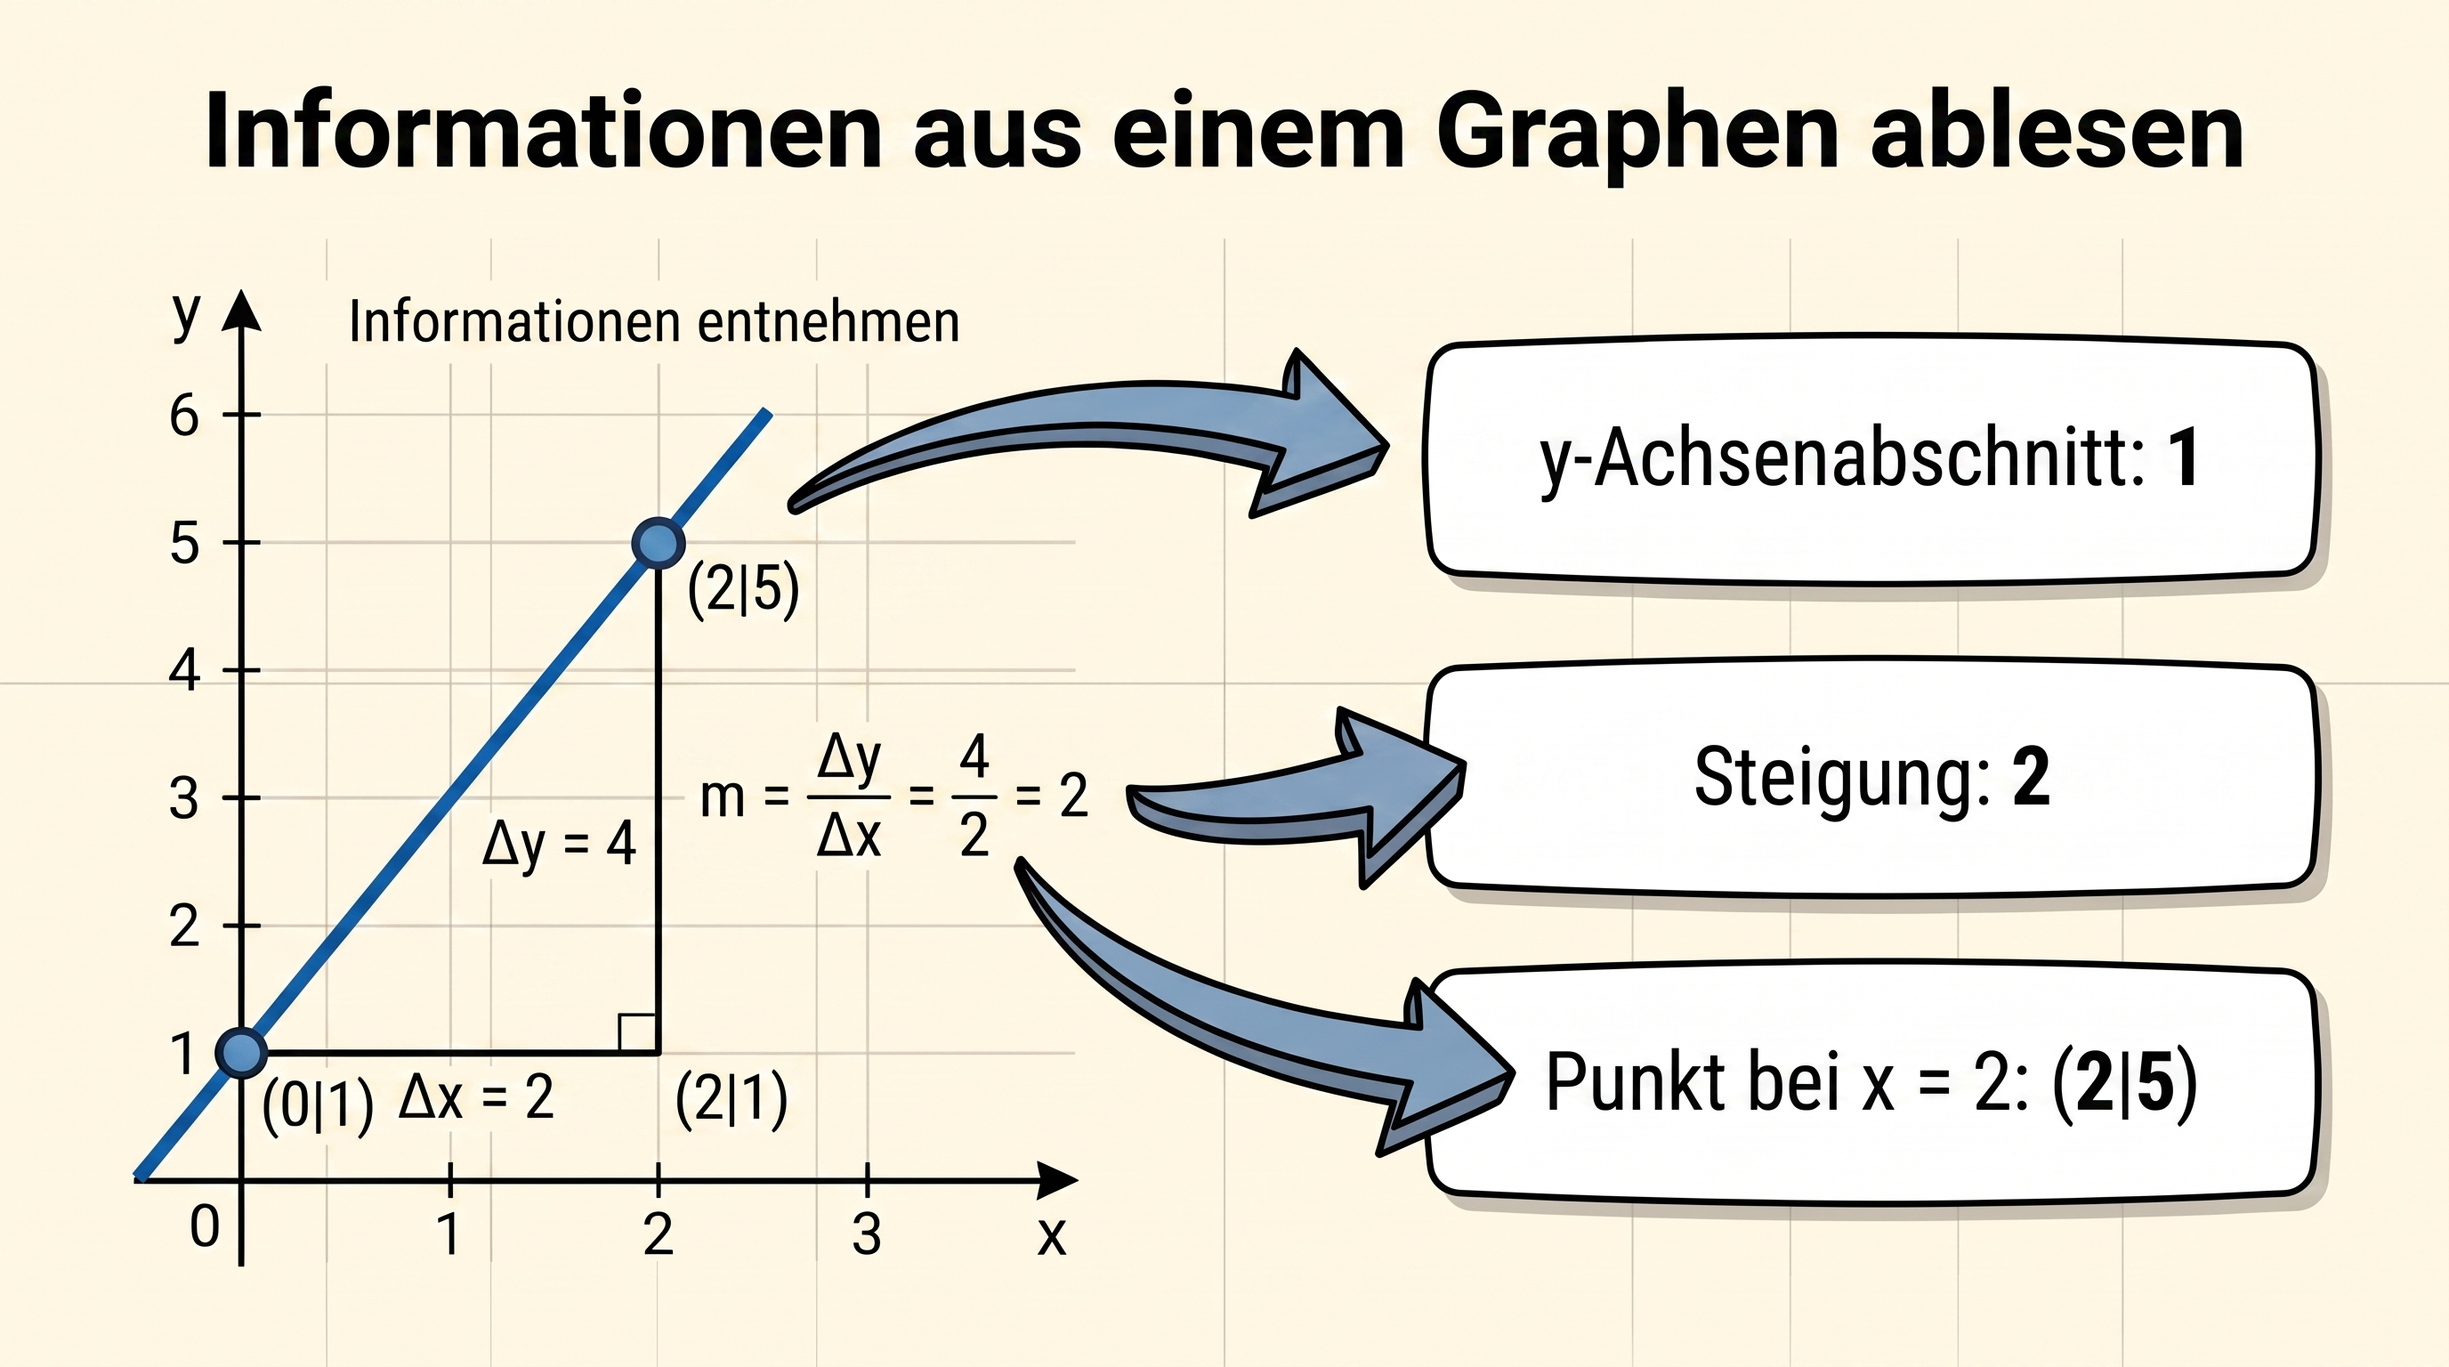
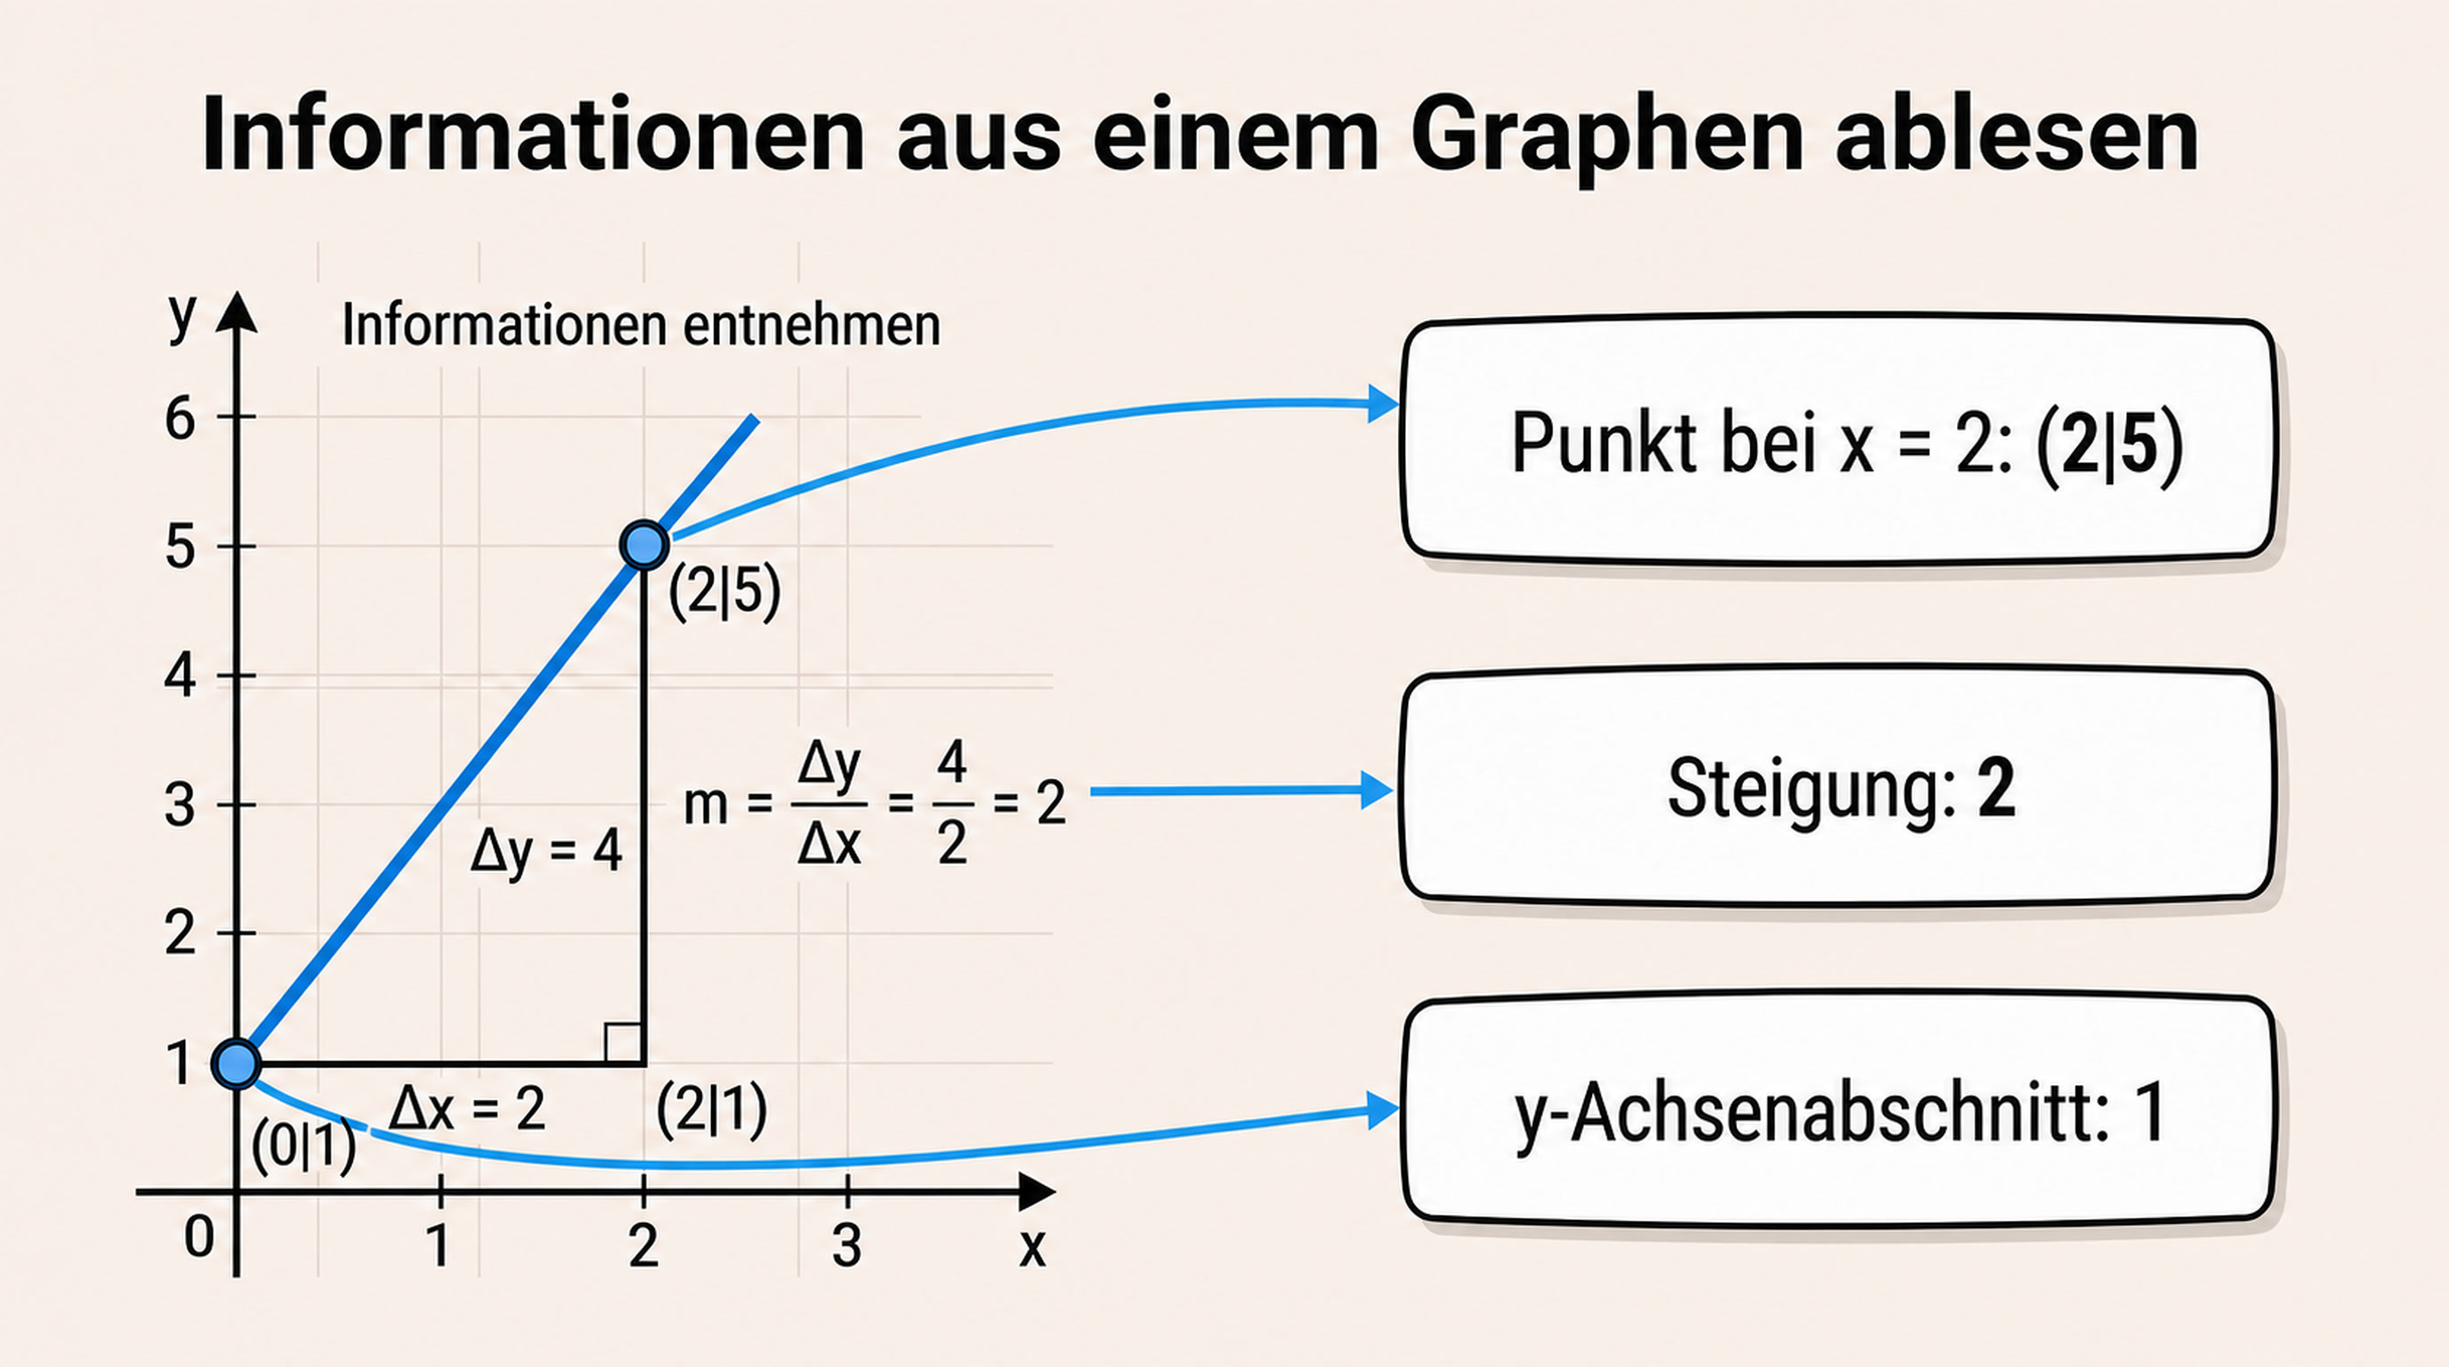
skill graph update

Changed region(s): [[0.0312, 0.2188, 0.9688, 0.9375], [0.0625, 0.0625, 0.9375, 0.1562]]

diff --git a/backend/src/test/java/com/skillpilot/backend/curriculumpackage/ProvisionedCurriculumPackageConformanceTest.java b/backend/src/test/java/com/skillpilot/backend/curriculumpackage/ProvisionedCurriculumPackageConformanceTest.java
@@ -44,7 +44,7 @@ class ProvisionedCurriculumPackageConformanceTest {
         assertThat(snapshot.packages().getFirst().packageId())
                 .isEqualTo("org.skillpilot.curriculum.de.gymnasium.mathematik");
         assertThat(snapshot.packages().getFirst().contentDigest())
-                .isEqualTo("sha256:1b5294f3ea798f0ce95a57c86103119dd5b2ec58f29122c3127931f802ecad3c");
+                .isEqualTo("sha256:6216769178ce58830896e825a1b5c7739922cd336a8148c7402ba51cf710d5df");
         assertThat(snapshot.rootLandscapeIds()).hasSize(1);
         assertThat(snapshot.landscapesById()).hasSize(1);
         assertThat(snapshot.viewsById()).hasSize(88);

diff --git a/docs/qa-ci/curriculum-release-model-conformance.md b/docs/qa-ci/curriculum-release-model-conformance.md
@@ -82,7 +82,7 @@ Before compiling payloads, the compiler proves that `tmp/lehrplan-ontologie` is 
 
 `dependency-closure.json` inventories typed Runtime definitions and every schema-classified Runtime reference. Identical definitions can be deduplicated by canonical definition digest; the same stable identity with a different definition is a hard conflict. Publication evidence is deliberately not seeded or traversed: evidence about a goal must roundtrip and affect the content digest, but it must not become a navigation dependency. The initial Mathematik release has no predecessor, so `migration-aliases.json` uses an explicit `initial` baseline and an empty rule set. Later releases must compare against a pinned stable baseline and use the registered migration relation and mastery/history policy for every identity change.
 
-`semantic-content-index.json` is package-path-neutral. It binds 111 normalized logical records—including all four publication artifacts—and 734 image binary records into one deterministic `contentDigest`; generated digest fields are excluded through the versioned normalization contract to avoid self-reference. For the current `0.1.0-conformance.3` authoring state the result is `sha256:1b5294f3ea798f0ce95a57c86103119dd5b2ec58f29122c3127931f802ecad3c`. The older DPK-007a/008 release freeze remains bound to its historical digest and must be supplied as a frozen artifact rather than rebuilt from current sources. The closure digest is `sha256:b6f7022e7ab20cd901d3417279cd870c5c11d317283a121ec67e759ccbb3ed39`; the definition-index digest is `sha256:d6aa2e3303843d4c2bdae712438f4c3a2df098d1b95d5faa21554d21ca97d8f1`.
+`semantic-content-index.json` is package-path-neutral. It binds 111 normalized logical records—including all four publication artifacts—and 734 image binary records into one deterministic `contentDigest`; generated digest fields are excluded through the versioned normalization contract to avoid self-reference. For the current `0.1.0-conformance.3` authoring state the result is `sha256:6216769178ce58830896e825a1b5c7739922cd336a8148c7402ba51cf710d5df`. The older DPK-007a/008 release freeze remains bound to its historical digest and must be supplied as a frozen artifact rather than rebuilt from current sources. The closure digest is `sha256:e310ea33918786c1ada6a2e6e78b1593a4a3f66573e0fe7fbcfb19637587b5a2`; the definition-index digest is `sha256:90ecbc58534cda75efd2a1f4df5fe08bb86cb5f37cab2d7b8cd0c2b6a78132e8`.
 
 ## Publication Evidence
 

diff --git a/curricula/DE/Gymnasium/quality/goal-visualization-review/mathematik-rollout-status.md b/curricula/DE/Gymnasium/quality/goal-visualization-review/mathematik-rollout-status.md
@@ -8,7 +8,7 @@
 > Source of truth: `curricula/DE/Gymnasium/canonical/DE_DEU_S_GYM_CANONICAL_MATHEMATIK.de.json`
 > Source of truth: `curricula/DE/Gymnasium/quality/goal-visualization-review`
 
-Generated: 2026-07-28T12:32:42.720Z
+Generated: 2026-08-05T06:57:54.319Z
 
 Scope: canonical `DE Gymnasium Mathematik`, atomic goal visualizations.
 
@@ -24,7 +24,7 @@ Scope: canonical `DE Gymnasium Mathematik`, atomic goal visualizations.
 | Dokumentierte Coverage | 100.0% |
 | Coverage-Gate | bestanden |
 | Release-approved Visualisierungen | 0 |
-| Review-Ledger-Dateien | 218 |
+| Review-Ledger-Dateien | 219 |
 | Offene Provider-Deferred-Ziele | 23 |
 | Offene Provider-Quota-Ziele | 0 |
 | Provider-Quota-blockierte Ledger | 2 |
@@ -58,7 +58,7 @@ Scope: canonical `DE Gymnasium Mathematik`, atomic goal visualizations.
 | `accepted_pilot_after_second_regeneration` | 15 |
 | `accepted_pilot_after_third_attempt` | 5 |
 | `accepted_pilot_after_third_regeneration` | 6 |
-| `accepted_pilot_after_user_review_correction` | 46 |
+| `accepted_pilot_after_user_review_correction` | 47 |
 | `accepted_user_supplied_replacement` | 1 |
 | `blocked_provider_quota` | 5 |
 | `correction_open_provider_credit_exhausted` | 4 |
@@ -77,8 +77,8 @@ Scope: canonical `DE Gymnasium Mathematik`, atomic goal visualizations.
 
 | Metric | Value |
 | --- | --- |
-| Latest ledger | `curricula/DE/Gymnasium/quality/goal-visualization-review/mathematik-user-review-correction-2026-07-23.md` |
-| Latest ledger status | `completed` |
+| Latest ledger | `curricula/DE/Gymnasium/quality/goal-visualization-review/mathematik-arrow-source-correction-2026-08-05.md` |
+| Latest ledger status | `completed_pilot` |
 | Configured resume file | - |
 | Configured prompt append dir | `tmp/goal-visualization-prompt-appends/mathematik-final-gap-2026-07-17` |
 
@@ -156,7 +156,7 @@ Keine Eintraege.
 | 152 | `2f565855-bcd6-4da5-bc80-4b72a2d93d50` | Dezimalzahlen auf der Zahlengeraden, im Stellenwertsystem und als Bruch darstellen | `accepted_pilot_after_user_review_correction` |
 | 153 | `797ee047-b8dd-45cf-880e-98571a56c690` | Bruchgleichungen lösen und als Schnittprobleme deuten | `accepted_pilot_after_user_review_correction` |
 
-Weitere 26 Eintraege stehen in der JSON-Begleitdatei.
+Weitere 27 Eintraege stehen in der JSON-Begleitdatei.
 
 ## Review/Link Consistency
 

diff --git a/curricula/DE/Gymnasium/visualizations/mathematik/cf4fe700-dec2-502f-888b-90acefa307bb/image-reconstruction-prompt.de.md b/curricula/DE/Gymnasium/visualizations/mathematik/cf4fe700-dec2-502f-888b-90acefa307bb/image-reconstruction-prompt.de.md
@@ -8,7 +8,7 @@
 
 ## Generator
 
-- Provider: Google Gemini / Nano Banana Pro (gemini-3-pro-image)
+- Provider: OpenAI integrierte Bildgenerierung (image_gen)
 - Quellbild: `cf4fe700-dec2-502f-888b-90acefa307bb.jpg`
 
 ## Zweck
@@ -31,12 +31,12 @@ Die Koordinaten der relevanten Punkte sind ebenfalls beschriftet: "(0|1)" am Sta
 Rechts oberhalb des Steigungsdreiecks ist die Steigungsberechnung in schwarzem Text dargestellt: "m = Δy / Δx = 4 / 2 = 2".
 
 Auf der rechten Seite des Bildes sind drei vertikal gestapelte, abgerundete weiße Rechtecke mit dicken schwarzen Umrissen.
-Das oberste Rechteck enthält den fetten schwarzen Text "y-Achsenabschnitt: 1".
+Das oberste Rechteck enthält den fetten schwarzen Text "Punkt bei x = 2: (2|5)".
 Das mittlere Rechteck enthält den fetten schwarzen Text "Steigung: 2".
-Das unterste Rechteck enthält den fetten schwarzen Text "Punkt bei x = 2: (2|5)".
+Das unterste Rechteck enthält den fetten schwarzen Text "y-Achsenabschnitt: 1".
 
-Drei geschwungene, hellblaue Pfeile mit schwarzen Umrissen verbinden die linke Diagrammhälfte mit den rechten Informationsboxen.
-Der oberste Pfeil zeigt von der blauen Linie am y-Achsenabschnitt (Punkt (0|1)) zur Box "y-Achsenabschnitt: 1".
-Der mittlere Pfeil zeigt von der Steigungsberechnung "m = Δy / Δx = 4 / 2 = 2" zur Box "Steigung: 2".
-Der unterste Pfeil zeigt vom Punkt (2|5) auf der blauen Linie zur Box "Punkt bei x = 2: (2|5)".
+Drei blaue Pfeile verbinden die passenden Belege der linken Diagrammhälfte eindeutig mit den rechten Informationsboxen. Jeder Pfeil besitzt am Beleg ein flaches oder weich gerundetes Schaftende und genau eine Pfeilspitze an seiner Ergebnisbox. Die Pfeile kreuzen sich nicht.
+Der oberste, leicht nach oben geschwungene Pfeil beginnt direkt am blau markierten Punkt (2|5) und zeigt zur Box "Punkt bei x = 2: (2|5)".
+Der mittlere, waagerechte Pfeil beginnt direkt rechts neben der Steigungsberechnung "m = Δy / Δx = 4 / 2 = 2" und zeigt zur Box "Steigung: 2".
+Der unterste, leicht nach unten geschwungene Pfeil beginnt direkt am blau markierten Punkt (0|1) und zeigt zur Box "y-Achsenabschnitt: 1".
 ```

diff --git a/curricula/DE/Gymnasium/visualizations/mathematik/cf4fe700-dec2-502f-888b-90acefa307bb/prompt.de.md b/curricula/DE/Gymnasium/visualizations/mathematik/cf4fe700-dec2-502f-888b-90acefa307bb/prompt.de.md
@@ -8,7 +8,7 @@
 
 ## Generator
 
-- Provider: Google Gemini / Nano Banana Pro (gemini-3-pro-image)
+- Provider: OpenAI integrierte Bildgenerierung (image_gen)
 - Status: pilot
 - Quellbild: `cf4fe700-dec2-502f-888b-90acefa307bb.jpg`
 - Public Asset: `/assets/goal-visualizations/mathematik/cf4fe700-dec2-502f-888b-90acefa307bb/cf4fe700-dec2-502f-888b-90acefa307bb.jpg`
@@ -37,13 +37,15 @@ Pflichtinhalt:
 - Zeichne die Gerade "y = 2x + 1" exakt durch die markierten Punkte "(0|1)" und "(2|5)".
 - Das Steigungsdreieck muss geometrisch exakt passen: waagerechte Strecke von (0|1) nach (2|1) mit Label "Δx = 2"; senkrechte Strecke von (2|1) nach (2|5) mit Label "Δy = 4"; rechter Winkel bei (2|1).
 - Zeige neben dem Dreieck exakt "m = Δy / Δx = 4 / 2 = 2".
-- Drei kurze Ergebnisfelder rechts: "y-Achsenabschnitt: 1", "Punkt bei x = 2: (2|5)", "Steigung: 2".
-- Achsen, Skala, Punkte und Pfeile müssen eindeutig zusammenpassen.
+- Drei kurze Ergebnisfelder rechts, nach der Höhe ihres jeweiligen Belegs angeordnet: oben "Punkt bei x = 2: (2|5)", mittig "Steigung: 2", unten "y-Achsenabschnitt: 1".
+- Verbinde jeden Beleg genau mit seiner Aussage: Der obere Pfeil beginnt direkt am markierten Punkt `(2|5)`, der mittlere direkt rechts neben der Steigungsrechnung und der untere direkt am markierten Punkt `(0|1)`.
+- Jeder Pfeil beginnt mit einem flachen oder weich gerundeten Schaftende und besitzt genau eine Pfeilspitze an der zugehörigen Ergebnisbox. Die Pfeile dürfen sich nicht kreuzen.
+- Achsen, Skala, Punkte, Rechnung, Pfeilquellen und Ergebnisfelder müssen eindeutig zusammenpassen.
 
 Vermeiden:
 - Keine Steigungsdreiecke, deren gezeichnete Längen nicht zu Δx = 2 und Δy = 4 passen.
 - Keine zusätzlichen Punkte, Nullstellen, Schnittpunkte oder Zahlen.
-- Keine falsch verbundenen Pfeile oder redundanten Beschriftungen.
+- Keine falsch verbundenen Pfeile, Pfeilspitzen an den Belegseiten oder redundanten Beschriftungen.
 - Keine technischen IDs, Marken, Logos, Kurs- oder Schulbezeichnungen.
 ```
 

diff --git a/curricula/DE/Gymnasium/quality/goal-visualization-review/mathematik-arrow-source-correction-2026-08-05.md b/curricula/DE/Gymnasium/quality/goal-visualization-review/mathematik-arrow-source-correction-2026-08-05.md
@@ -1,0 +1,22 @@
+# Goal Visualization Review - Mathematik Arrow-Source Correction
+
+Review date: 2026-08-05
+
+Scope: one user-reported ambiguity in the arrows of the visualization for reading information from a linear graph.
+
+Status: `completed_pilot`
+
+## Reviewed Asset
+
+| Goal ID | Decision | Previous hash | Final hash | Review |
+| --- | --- | --- | --- | --- |
+| `cf4fe700-dec2-502f-888b-90acefa307bb` | `accepted_pilot_after_user_review_correction` | `sha256:1552085399dc6e440b37c6effea0eedcfbe91504d9af5be0930de83892fb9b22` | `sha256:e669f74d697c94135017ca50bbee33bb3020e21a21e70d40fcb9cdb0d32b0924` | The result boxes were ordered by the height of their matching evidence so the connectors do not cross. The upper arrow starts directly at `(2|5)` and ends at the matching point statement, the middle arrow starts at the slope calculation and ends at `Steigung: 2`, and the lower arrow starts directly at `(0|1)` and ends at `y-Achsenabschnitt: 1`. Every source is flat or rounded; arrowheads occur only at the three destination boxes. |
+
+## Checks
+
+- The final candidate was inspected at original resolution before import and independently reviewed once more after the targeted lower-arrow correction.
+- The graph is consistent with `y = 2x + 1`: it contains `(0|1)` and `(2|5)`.
+- The rise/run triangle has `Δx = 2` and `Δy = 4`, so the displayed calculation `m = 4 / 2 = 2` is correct.
+- The three visible statements, coordinate labels, German text, and mathematical notation are legible and correct.
+- The canonical JPEG keeps the established goal-ID filename and `2752 × 1536` dimensions; canonical, public, and backend asset copies are byte-identical.
+- The image was generated with OpenAI's integrated `image_gen` workflow; no SVG or manually drawn fallback was used.

diff --git a/contracts/curriculum-package/v1/README.md b/contracts/curriculum-package/v1/README.md
@@ -100,7 +100,7 @@ npm --prefix app run export:full-standalone-package -- \
   --expect-entry-count 896 \
   --expect-manifest-file-count 894 \
   --expect-binary-asset-count 734 \
-  --expect-content-digest sha256:1b5294f3ea798f0ce95a57c86103119dd5b2ec58f29122c3127931f802ecad3c
+  --expect-content-digest sha256:6216769178ce58830896e825a1b5c7739922cd336a8148c7402ba51cf710d5df
 
 python3 -B scripts/validate_full_standalone_curriculum_package.py \
   --zip tmp/curriculum-release-model/full-standalone-package/skillpilot-curriculum-de-gymnasium-mathematik-0.1.0-conformance.3.json.zip \

diff --git a/docs/qa-ci/curriculum-package-readiness.md b/docs/qa-ci/curriculum-package-readiness.md
@@ -45,7 +45,7 @@ npm --prefix app run export:full-standalone-package -- \
   --expect-entry-count 896 \
   --expect-manifest-file-count 894 \
   --expect-binary-asset-count 734 \
-  --expect-content-digest sha256:1b5294f3ea798f0ce95a57c86103119dd5b2ec58f29122c3127931f802ecad3c
+  --expect-content-digest sha256:6216769178ce58830896e825a1b5c7739922cd336a8148c7402ba51cf710d5df
 
 python3 -B scripts/validate_full_standalone_curriculum_package.py \
   --zip tmp/curriculum-release-model/full-standalone-package/skillpilot-curriculum-de-gymnasium-mathematik-0.1.0-conformance.3.json.zip \
